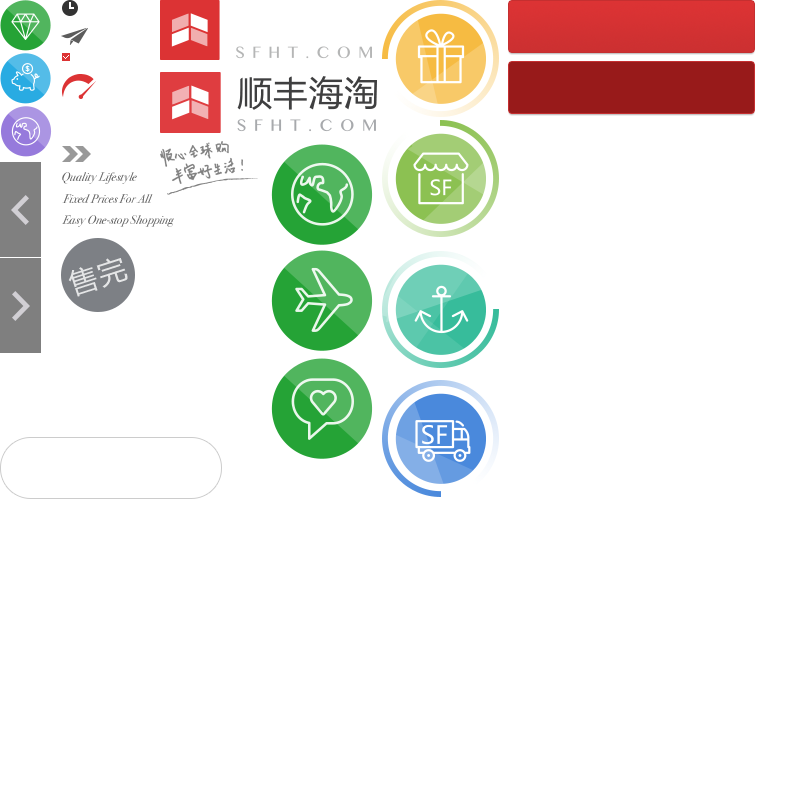
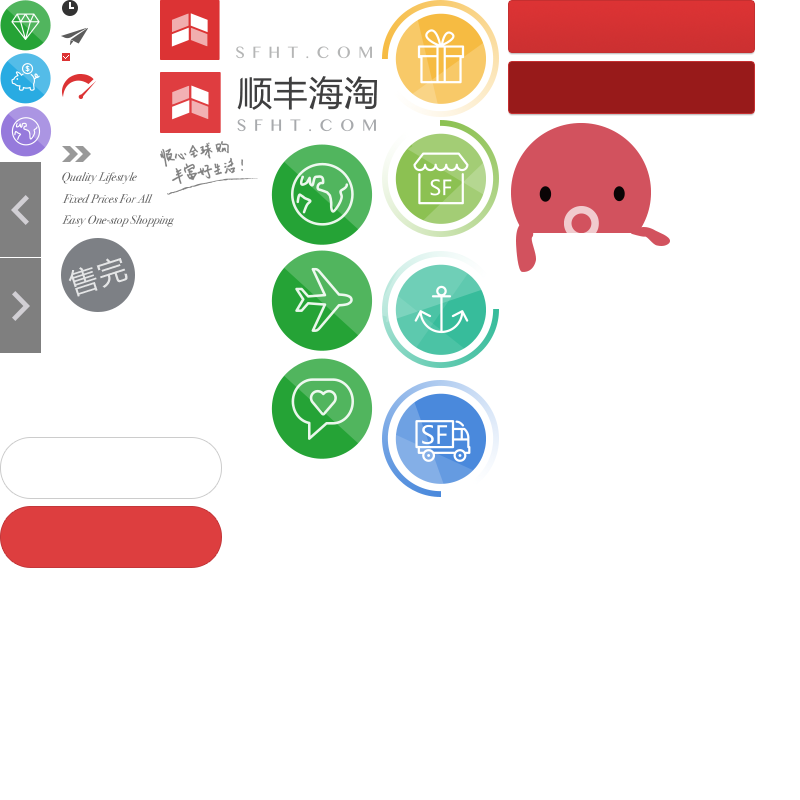
交互review

Changed region(s): [[0.625, 0.1562, 0.8438, 0.3438], [0.0, 0.625, 0.2812, 0.7188]]

diff --git a/prototype/index.html b/prototype/index.html
@@ -85,7 +85,7 @@
               <h3><a href="">Kate Spade女款手提包手拎包</a></h3>
               <p>美式休闲打牌，零利疯抢！</p>
               <div class="product-r2 clearfix">
-                <div class="product-r2c1 fl"><span class="icon icon4"></span>01天23时09分44秒</div>
+                <div class="product-r2c1 fl"><span class="icon icon4"></span>12月26日（明天）12:00 开始</div>
                 <div class="product-r2c2 fr"><img src="img/icon-usa.png" alt="" /></div>
               </div>
               <div class="product-r3 clearfix">
@@ -105,7 +105,7 @@
               <h3><a href="">Kate Spade女款手提包手拎包</a></h3>
               <p>美式休闲打牌，零利疯抢！</p>
               <div class="product-r2 clearfix">
-                <div class="product-r2c1 fl"><span class="icon icon4"></span>01天23时09分44秒</div>
+                <div class="product-r2c1 fl"><span class="icon icon4"></span>12月26日（明天）12:00 开始</div>
                 <div class="product-r2c2 fr"><img src="img/icon-usa.png" alt="" /></div>
               </div>
               <div class="product-r3 clearfix">
@@ -125,7 +125,7 @@
               <h3><a href="">Kate Spade女款手提包手拎包</a></h3>
               <p>美式休闲打牌，零利疯抢！</p>
               <div class="product-r2 clearfix">
-                <div class="product-r2c1 fl"><span class="icon icon4"></span>01天23时09分44秒</div>
+                <div class="product-r2c1 fl"><span class="icon icon4"></span>12月26日（明天）12:00 开始</div>
                 <div class="product-r2c2 fr"><img src="img/icon-usa.png" alt="" /></div>
               </div>
               <div class="product-r3 clearfix">
@@ -145,7 +145,7 @@
               <h3><a href="">Kate Spade女款手提包手拎包</a></h3>
               <p>美式休闲打牌，零利疯抢！</p>
               <div class="product-r2 clearfix">
-                <div class="product-r2c1 fl"><span class="icon icon4"></span>01天23时09分44秒</div>
+                <div class="product-r2c1 fl"><span class="icon icon4"></span>12月26日（明天）12:00 开始</div>
                 <div class="product-r2c2 fr"><img src="img/icon-usa.png" alt="" /></div>
               </div>
               <div class="product-r3 clearfix">
@@ -165,7 +165,7 @@
               <h3><a href="">Kate Spade女款手提包手拎包</a></h3>
               <p>美式休闲打牌，零利疯抢！</p>
               <div class="product-r2 clearfix">
-                <div class="product-r2c1 fl"><span class="icon icon4"></span>01天23时09分44秒</div>
+                <div class="product-r2c1 fl"><span class="icon icon4"></span>12月26日（明天）12:00 开始</div>
                 <div class="product-r2c2 fr"><img src="img/icon-usa.png" alt="" /></div>
               </div>
               <div class="product-r3 clearfix">
@@ -185,7 +185,7 @@
               <h3><a href="">Kate Spade女款手提包手拎包</a></h3>
               <p>美式休闲打牌，零利疯抢！</p>
               <div class="product-r2 clearfix">
-                <div class="product-r2c1 fl"><span class="icon icon4"></span>01天23时09分44秒</div>
+                <div class="product-r2c1 fl"><span class="icon icon4"></span>12月26日（明天）12:00 开始</div>
                 <div class="product-r2c2 fr"><img src="img/icon-usa.png" alt="" /></div>
               </div>
               <div class="product-r3 clearfix">
@@ -207,7 +207,7 @@
               <h3><a href="">Kate Spade女款手提包手拎包</a></h3>
               <p>美式休闲打牌，零利疯抢！</p>
               <div class="product-r2 clearfix">
-                <div class="product-r2c1 fl"><span class="icon icon4"></span>01天23时09分44秒</div>
+                <div class="product-r2c1 fl"><span class="icon icon4"></span>12月26日（明天）12:00 开始</div>
                 <div class="product-r2c2 fr"><img src="img/icon-usa.png" alt="" /></div>
               </div>
               <div class="product-r3 clearfix">
@@ -227,7 +227,7 @@
               <h3><a href="">Kate Spade女款手提包手拎包</a></h3>
               <p>美式休闲打牌，零利疯抢！</p>
               <div class="product-r2 clearfix">
-                <div class="product-r2c1 fl"><span class="icon icon4"></span>01天23时09分44秒</div>
+                <div class="product-r2c1 fl"><span class="icon icon4"></span>12月26日（明天）12:00 开始</div>
                 <div class="product-r2c2 fr"><img src="img/icon-usa.png" alt="" /></div>
               </div>
               <div class="product-r3 clearfix">
@@ -247,7 +247,7 @@
               <h3><a href="">Kate Spade女款手提包手拎包</a></h3>
               <p>美式休闲打牌，零利疯抢！</p>
               <div class="product-r2 clearfix">
-                <div class="product-r2c1 fl"><span class="icon icon4"></span>01天23时09分44秒</div>
+                <div class="product-r2c1 fl"><span class="icon icon4"></span>12月26日（明天）12:00 开始</div>
                 <div class="product-r2c2 fr"><img src="img/icon-usa.png" alt="" /></div>
               </div>
               <div class="product-r3 clearfix">
@@ -267,7 +267,7 @@
               <h3><a href="">Kate Spade女款手提包手拎包</a></h3>
               <p>美式休闲打牌，零利疯抢！</p>
               <div class="product-r2 clearfix">
-                <div class="product-r2c1 fl"><span class="icon icon4"></span>01天23时09分44秒</div>
+                <div class="product-r2c1 fl"><span class="icon icon4"></span>12月26日（明天）12:00 开始</div>
                 <div class="product-r2c2 fr"><img src="img/icon-usa.png" alt="" /></div>
               </div>
               <div class="product-r3 clearfix">
@@ -287,7 +287,7 @@
               <h3><a href="">Kate Spade女款手提包手拎包</a></h3>
               <p>美式休闲打牌，零利疯抢！</p>
               <div class="product-r2 clearfix">
-                <div class="product-r2c1 fl"><span class="icon icon4"></span>01天23时09分44秒</div>
+                <div class="product-r2c1 fl"><span class="icon icon4"></span>12月26日（明天）12:00 开始</div>
                 <div class="product-r2c2 fr"><img src="img/icon-usa.png" alt="" /></div>
               </div>
               <div class="product-r3 clearfix">
@@ -307,7 +307,7 @@
               <h3><a href="">Kate Spade女款手提包手拎包</a></h3>
               <p>美式休闲打牌，零利疯抢！</p>
               <div class="product-r2 clearfix">
-                <div class="product-r2c1 fl"><span class="icon icon4"></span>01天23时09分44秒</div>
+                <div class="product-r2c1 fl"><span class="icon icon4"></span>12月26日（明天）12:00 开始</div>
                 <div class="product-r2c2 fr"><img src="img/icon-usa.png" alt="" /></div>
               </div>
               <div class="product-r3 clearfix">
@@ -526,7 +526,7 @@
       </div>
         
     </div>
-
+    <div class="footer3">Copyright 2014 版权所有sfht.com 沪ICP备 1404464</div>
   </div>
   <!--尾部-->
   <script src="js/jquery-1.11.1.min.js"></script>

diff --git a/prototype/css/common.css b/prototype/css/common.css
@@ -114,8 +114,8 @@ img{vertical-align: middle;}
 	top:100%;
 }
 .icon7{
-	width: 26px;
-	height: 30px;
+	width: 18px;
+	height: 21px;
 	background-position: -62px -107px;
 }
 .icon8{
@@ -236,6 +236,11 @@ img{vertical-align: middle;}
 	border-radius: 2px;
 	padding: 0 15px;
 }
+.icon27{
+	width: 159px;
+	height: 149px;
+	background-position: -511px -123px;
+}
 /*btn*/
 .btn{
 	display: inline-block;
@@ -244,28 +249,31 @@ img{vertical-align: middle;}
 	border: none;
 }
 .btn-top{
-	padding: 18px 20px;
-	background: #a6a6a6;
+	padding: 8px 10px;
+	background: #b2b2b2;
+	background: rgba(0,0,0,0.3);
 	border-radius: 5px;
 	position: fixed;
 	bottom: 100px;
-	right: 0;
+	right: 50px;
 	display: none;
+}
+.btn-top:hover{
+	background: #7f7f7f;
+	background: rgba(0,0,0,0.5);
 }
 .btn-more{
 	color: #999;
 	font-size: 18px;
-	text-align: center;
-	width: 220px;
-	height: 60px;
-	line-height: 60px;
-	border-radius: 30px;
-	border:1px solid #ccc;
-	background: #fff;
-	background: url(../img/icon.png) no-repeat 0 -437px \9;
-	border: none \9;
-	width: 222px \9;
-	height: 62px \9;
+	text-align: center;	
+	background: url(../img/icon.png) no-repeat 0 -437px;
+	width: 222px;
+	height: 62px;
+	line-height: 62px;
+}
+.btn-more:hover{
+	background-position: 0 -506px;
+	color: #fff;
 }
 .btn-prev,
 .btn-next{
@@ -295,7 +303,7 @@ img{vertical-align: middle;}
 	color: #fff;
 
 }
-.btn-buy:active{
+.btn-buy:hover{
 	background-position: -508px -61px;
 }
 .btn-goods{
@@ -422,7 +430,7 @@ img{vertical-align: middle;}
 
 body{
 	background: #EEEEEE;
-	padding-top: 81px;
+	padding-top: 60px;
 }
 /*布局*/
 .pm{
@@ -433,8 +441,8 @@ body{
 /*导航*/
 .nav{
 	background: url(../img/nav.png) repeat-x;
-	height: 81px;
-	line-height: 81px;
+	height: 60px;
+	line-height: 60px;
 	position: fixed;
 	width: 100%;
 	top: 0;
@@ -442,7 +450,7 @@ body{
 }
 .nav li{
 	float: left;
-	font-size: 18px;
+	font-size: 16px;
 	
 }
 .nav-c1{
@@ -462,6 +470,9 @@ body{
 .nav li a{
 	color: #C5C7C9;
 }
+.nav li a:hover{
+	color: #fff;
+}
 .nav-c2 .icon{
 	margin-left: 9px;
 	vertical-align: -10px;
@@ -470,11 +481,11 @@ body{
 
 /*头部*/
 .header{
-	height: 169px;
+	height: 139px;
 	background: #fff;
 }
 .header-c1{
-	padding-top: 51px;
+	padding-top: 36px;
 }
 .header-c1 .icon10{
 	margin-right: 34px;
@@ -484,7 +495,7 @@ body{
 }
 
 .header-c2{
-	padding-top: 58px;
+	padding-top: 43px;
 }
 .header-c2 li{
 	float: left;
@@ -542,13 +553,16 @@ body{
 	margin-right: 119px;
 }
 .footer2 dt{
-	font-size: 18px;
+	font-size: 16px;
 }
 .footer2 dd{
 	margin-top: 24px;
 }
 .footer2 dd a{
-	font-size: 14px;
+	font-size: 12px;
+}
+.footer2 dd a:hover{
+	color: #fff;
 }
 .footer2-c1{
 	margin-right: 130px;
@@ -557,18 +571,40 @@ body{
 	text-align: right;
 }
 .footer2 .phone{
-	font-size: 30px;
+	font-size: 24px;
 	margin-bottom: 15px;
 }
 .footer2 .time{
-	font-size: 18px;
+	font-size: 16px;
 }
 /*footer3*/
 .footer3{
-	height: 103px;
-	line-height: 103px;
+	height: 50px;
+	line-height: 50px;
 	background: #23262C;
 	color: #4b4f5e;
 	text-align: center;
-	font-size: 18px;
+	font-size: 12px;
+}
+/*遮罩*/
+.mask{
+	width: 100%;
+	height: 100%;
+	position: fixed;
+	left: 0;
+	top: 0;
+	background: #000;
+	opacity: 0.5;
+	filter:alpha(opacity=50);
+}
+/*注册*/
+.register-b{
+	width: 542px;
+	height: 586px;
+	background: #fff;
+	position: fixed;
+	left: 50%;
+	top: 50%;
+	margin-left: -271px;
+	margin-top: -293px;
 }

diff --git a/prototype/icon.html b/prototype/icon.html
@@ -57,12 +57,15 @@
       <span class="icon icon25"></span>
       <span class="icon icon26">商品库存不足</span>
       <span class="icon icon26">商品限购2件</span>
+      <span class="icon icon27"></span>
+
       <h2>btn</h2>
       <a href="#" class="btn btn-top"><span class="icon icon7"></span></a>
       <a href="#" class="btn btn-more">查看更多</a>
       <a href="#" class="btn btn-prev">向前</a>
       <a href="#" class="btn btn-next">向后</a>
       <a href="#" class="btn btn-buy">立即购买</a>
+      <a href="#" class="btn btn-register">同意协议并注册</a>
       <label class="btn btn-goods">UGG<input type="radio" name="brank" value="UGG" class="visuallyhidden" /><span class="icon icon23"></span></label>
       <label class="btn btn-goods disable">UGG<input type="radio" disabled name="brank" value="UGG" class="visuallyhidden" /><span class="icon icon23"></span></label>
       <label class="btn btn-goods btn-goods-white"><b></b>白色<span class="icon icon23"></span><input type="radio" name="color" value="白色" class="visuallyhidden" /></label>

diff --git a/prototype/css/index.css b/prototype/css/index.css
@@ -158,6 +158,7 @@
 .product-list li:hover .product-r3{
 	background: #DD3E3F;
 	color: #fff;
+	border-top-color: #c3373a;
 	-webkit-transition: all 0.5s;
 	-moz-transition: all 0.5s;
 	-ms-transition: all 0.5s;
@@ -169,6 +170,11 @@
 .product-list li:hover .product-r3c2{
 	border-color:#fff;
 }
+.product-list li:hover del{
+	color: #fff;
+}
+
+
 .product-r1{
 	height:233px;
 	text-align: center;
@@ -208,7 +214,7 @@
 	padding-left: 23px;
 	padding-right: 19px;
 	padding-bottom: 29px;
-	border-bottom:1px solid #E5E5E5;
+	
 }
 .product-r2 .icon6{
 	margin-left: -23px;
@@ -225,6 +231,7 @@
 	line-height: 50px;
 	padding: 10px 0 10px 23px;
 	background: #FAFAFA;
+	border-top:1px solid #E5E5E5;
 }
 .product-r3c1 strong{
 	color: #dd3e3f;

diff --git a/prototype/detail.html b/prototype/detail.html
@@ -67,7 +67,7 @@
             <div class="mr3">国际物流：美国发货，预计10-15天内到货</div>
             <div class="mr4">发货商家：海外电商直发 顺丰海外直采</div>
             <div class="mr5">品牌：
-              <label class="btn btn-goods">UGG<input type="radio" name="brank" value="UGG" class="visuallyhidden" /></label>
+              <label class="btn btn-goods">UGG<input type="radio" name="brank" value="UGG" class="visuallyhidden" /><span class="icon icon23"></span></label>
               <label class="btn btn-goods disable">UGG<input type="radio" name="brank" value="UGG" class="visuallyhidden" /></label>
 
             </div>
